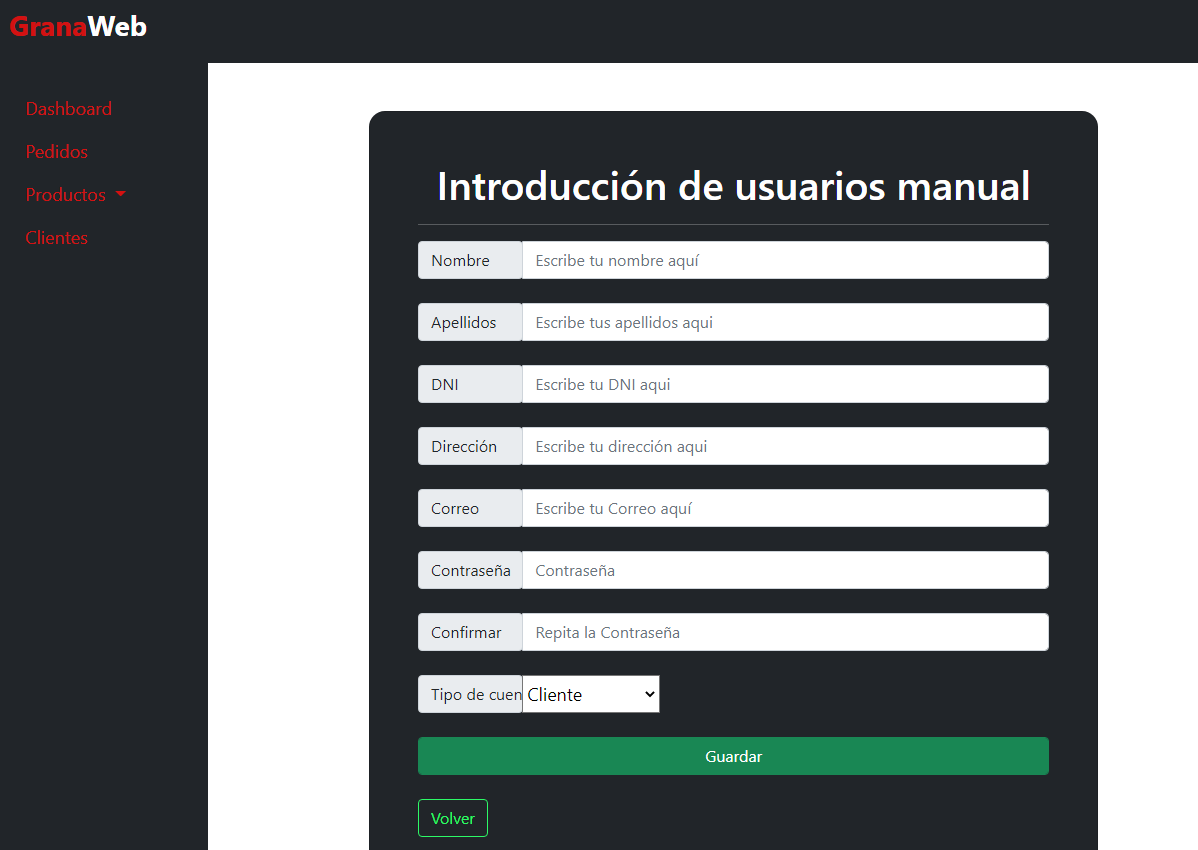
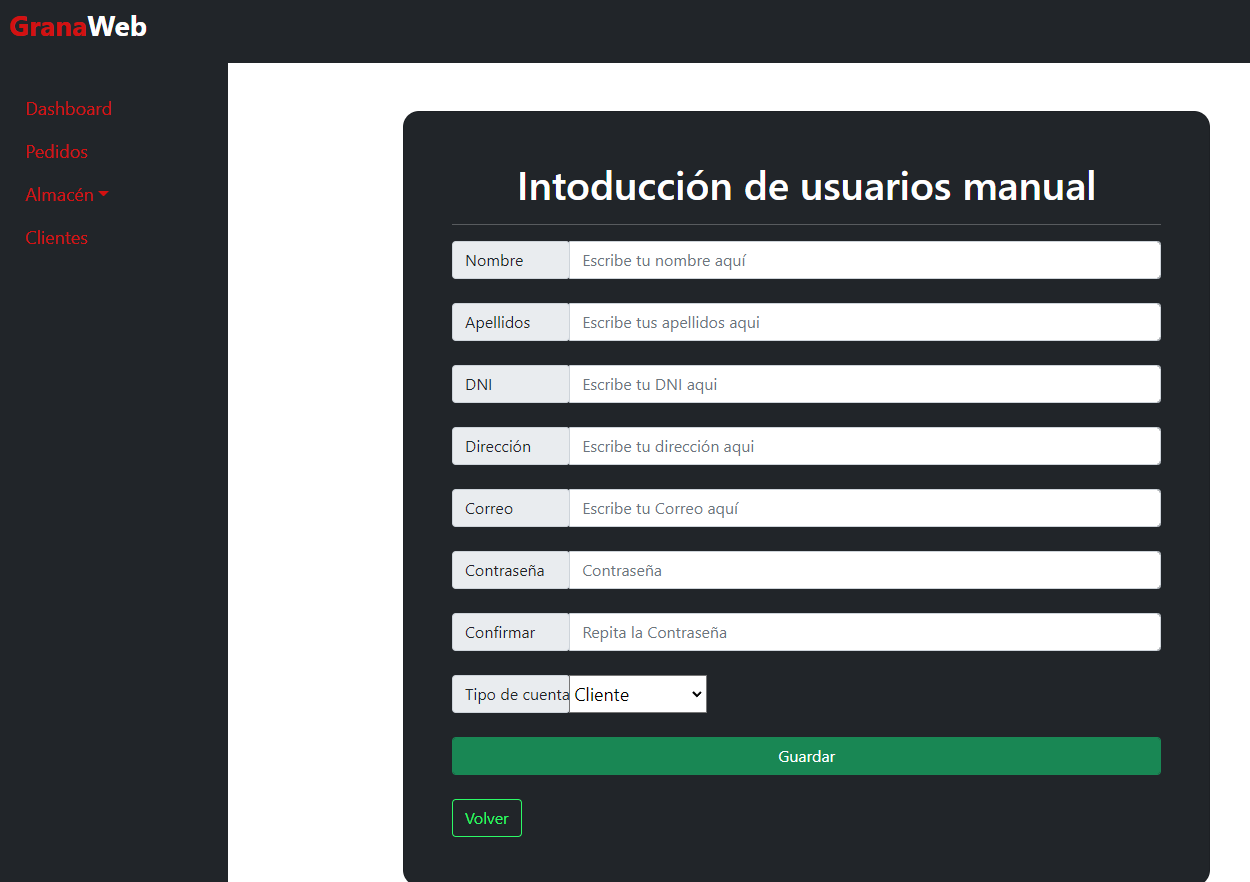
Agregar Gestión almacén

diff --git a/docs/productos.md b/docs/productos.md
@@ -1,0 +1,92 @@
+# Gestión del Almacén
+
+Para gestionar productos se realiza desde el backoffice en el apartado del menu **Almacén** el cual contiene dos enlaces uno para crear categorias y otro para crear productos, es importante que antes de añadir un producto crees la categoria primero, dichas categorias apareceran de manera automatica en el menu principal.
+
+## Categorias
+
+### Creación de una categoria
+
+Para crear una categoria tienes que ir al backoffice y seleccionar el apartado **Almacén** y dentro de él, **Categoria**, como podemos apreciar en la siguiente imagen:
+
+![Imagen categorias](./assets/img/categorias.png)
+
+Para crear una categoria simplementen le damos a **Crear nueva** y nos llevara a un formulario donde deberemos introducir todos los datos para crear una categoria nueva.
+
+![Imagen nueva categoria](./assets/img/addcategoria.png)
+
+### Ver información de una categora
+
+Para ver una la informacion de una categoría, en el la página principal de categorias en cada categoria nos saldra unos botones en el apartado **Acciones**:
+
+- Ver: con este boton te saldrá toda la informacion de esa categoria
+- Editar: con este boton te llevara a una nueva vista en la que podras modificar todos los datos de la categoria en cuestión.
+
+Si le damos al boton de ver nos llevara a esta vista, mostrandonos toda la informacion de dicha categoria:
+
+![Imagen show categoria](./assets/img/backoffice_viewCategoria.png)
+
+En esta vista podemos apreciar tres botones:
+
+- volver: este botón nos devolverá a la pagina donde se miestran todas las categorias.
+- editar: este botón nos llevara a la vista de editar dicha categoría.
+- Eliminar: este boton eliminara dicha categoría.
+
+### Editar informacion de un categoría
+
+Para modificar la información de una categoría disponemos de dos botones uno en la vista inicial donde se listan todas la categorias y otra desde la vista donde vemos la informacion de una categoria, ambos botones llevan al mismo sitio.
+
+![Edicion de categorias](./assets/img/edicion_categorias.png)
+
+En esta vista podemos apreciar tres botones:
+
+- Actualizar: este botón guarda la información que este en el formulario en la base de datos.
+- Volver: este botón te devuelve a la página donde se listan todas las categorias.
+- Eliminar: este botón elimina dicha categoria.
+
+## Productos
+
+### Listar el almacen
+
+Para ver todos los productos que disponemos en nuestra tienda, solo tenemos que irnos al apartado **Almacén** y dento de el **Productos** una vez dentro nos listará todos los productos que tenemos en la base de datos.
+
+![Lista almacen](./assets/img/lista_almacen.png)
+
+Como podemos apreciar vemos al final de cada producto, en el apartado **Acciones**, dos botones:
+
+- Ver: este botón nos llevará a una vista para ver la información más detallada del producto.
+- Editar: este botón nos llevara a una vista donde nos saldrá un formulario para modificar la informacion de dicho producto.
+
+### Creación de un producto
+
+Para crear un producto nuevo le podemos dar al boton de **Añadir Producto**, dicho botón no llevara a una vista donde aparace un formulario para introducir los datos del producto.
+
+![Producto nuevo](./assets/img/producto_nuevo.png)
+
+En esta vista disponemos de dos botones:
+
+- Guardar: este botón guardará la información que este en el formulario en la base de datos.
+- Volver: este botón nos devolvera a la vista donde se listan todos los productos.
+
+### Ver información de un producto
+
+Para ver la toda la información de un producto solo tenemos que darle al botón que hemos visto más arriba de **Ver** y nos llevará a la vista siguiente:
+
+![Ver producto](./assets/img/ver_producto.png)
+
+En esta vista disponemos de tres botones:
+
+- Volver: este botón nos devolverá a la vista anterior.
+- Editar: este boton nos llevara a la vista para modificar el producto.
+- Eliminar: esto boton eliminara el producto.
+
+### Editar información de un producto
+
+Para editar un producto podemos hacerlo desde la vista inicial donde se ven todos los productos o desde la vista donde se muestra toda la información del producto.
+
+![editar producto](./assets/img/editar_producto.png)
+
+En esta vista podemos apreciar tres botones:
+
+- Actualizar: este botón guardará los cambios en la base de datos.
+- Volver: este botón nos devolverá a la vista principal de los productos.
+- Eliminar: este botón eliminará el producto.

diff --git a/docs/usuarios.md b/docs/usuarios.md
@@ -27,6 +27,7 @@ Si le damos al boton de ver se nos abrira una vista con todos los datos del usua
 !["backoffice usuarios"](./assets/img/backoffice_vistaClientes.png)
 
 Desde esta vista podemos ver tres botones:
+
 - volver: nos devuelve a la vista anterior donde se listan todos los usuarios
 - editar: nos llevara a otra vista en la que nos saldrá un formulario para modificar datos del usuario, es la misma vista que en el boton del listado de clientes.
 - Eliminar: nos eliminara el usuario que estamos visualizando.
@@ -36,6 +37,7 @@ Si le damos al boton de editar nos llevará a la vista en la que tenemos un form
 !["backoffice modificar cliente"](./assets/img/backoffice_modificarCliente.png)
 
 En esta vista se podrán modificar todos lo valores del formulario anterior, tambien nos aparecen tres botones:
+
 - Guardar Cambios: Se guardarán todos los datos que se hayan modificado.
 - Volver: volverá a la vista donde se listan todos los usuarios. 
 - Elimiar: Eliminara dicho usuario.
